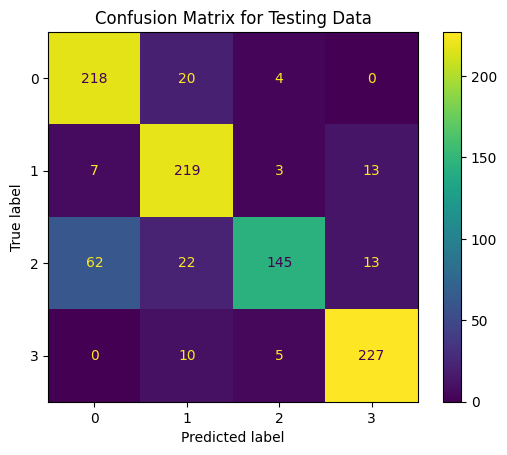
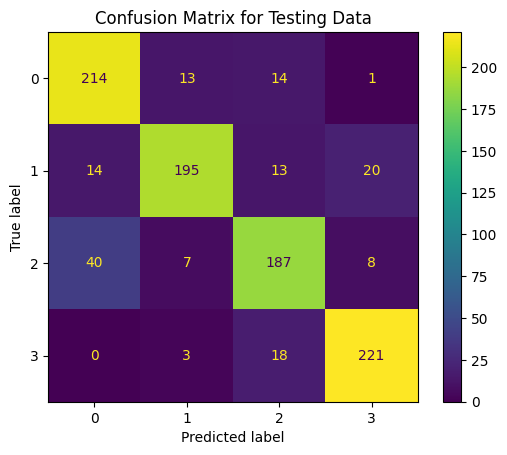
changed images

diff --git a/Project Progress Report/Proposal LaTeX/main.tex b/Project Progress Report/Proposal LaTeX/main.tex
@@ -262,35 +262,35 @@ The following results are shown below, which will be acting as the baselines goi
 \begin{lstlisting}
   ------ Training and Validation Phase ------
   Epoch [1/10]:
-  Training - Train Loss: 1.0887, Train Accuracy: 0.5433
-  Validation - Val Loss: 0.6531, Val Accuracy: 0.7812
+  Training - Train Loss: 1.0593, Train Accuracy: 0.5707
+  Validation - Val Loss: 0.5948, Val Accuracy: 0.9062
   Epoch [2/10]:
-  Training - Train Loss: 0.7874, Train Accuracy: 0.7192
-  Validation - Val Loss: 0.5057, Val Accuracy: 0.8750
+  Training - Train Loss: 0.7679, Train Accuracy: 0.7235
+  Validation - Val Loss: 0.4823, Val Accuracy: 0.8750
   Epoch [3/10]:
-  Training - Train Loss: 0.6839, Train Accuracy: 0.7508
-  Validation - Val Loss: 0.4508, Val Accuracy: 0.8438
+  Training - Train Loss: 0.7012, Train Accuracy: 0.7355
+  Validation - Val Loss: 0.4155, Val Accuracy: 0.8438
   Epoch [4/10]:
-  Training - Train Loss: 0.6904, Train Accuracy: 0.7365
-  Validation - Val Loss: 0.3884, Val Accuracy: 0.9062
+  Training - Train Loss: 0.6496, Train Accuracy: 0.7548
+  Validation - Val Loss: 0.3429, Val Accuracy: 0.9062
   Epoch [5/10]:
-  Training - Train Loss: 0.6213, Train Accuracy: 0.7712
-  Validation - Val Loss: 0.3650, Val Accuracy: 0.9375
+  Training - Train Loss: 0.6159, Train Accuracy: 0.7660
+  Validation - Val Loss: 0.3563, Val Accuracy: 0.9062
   Epoch [6/10]:
-  Training - Train Loss: 0.6065, Train Accuracy: 0.7668
-  Validation - Val Loss: 0.3354, Val Accuracy: 0.9062
+  Training - Train Loss: 0.5943, Train Accuracy: 0.7772
+  Validation - Val Loss: 0.3234, Val Accuracy: 0.9062
   Epoch [7/10]:
-  Training - Train Loss: 0.5787, Train Accuracy: 0.7800
-  Validation - Val Loss: 0.3003, Val Accuracy: 0.9062
+  Training - Train Loss: 0.5783, Train Accuracy: 0.7808
+  Validation - Val Loss: 0.3509, Val Accuracy: 0.9062
   Epoch [8/10]:
-  Training - Train Loss: 0.5600, Train Accuracy: 0.7983
-  Validation - Val Loss: 0.3019, Val Accuracy: 0.9062
+  Training - Train Loss: 0.5760, Train Accuracy: 0.7808
+  Validation - Val Loss: 0.2976, Val Accuracy: 0.8750
   Epoch [9/10]:
-  Training - Train Loss: 0.5657, Train Accuracy: 0.7867
-  Validation - Val Loss: 0.3093, Val Accuracy: 0.9062
+  Training - Train Loss: 0.5427, Train Accuracy: 0.8005
+  Validation - Val Loss: 0.2798, Val Accuracy: 0.9062
   Epoch [10/10]:
-  Training - Train Loss: 0.5466, Train Accuracy: 0.7920
-  Validation - Val Loss: 0.2906, Val Accuracy: 0.9062
+  Training - Train Loss: 0.5371, Train Accuracy: 0.8023
+  Validation - Val Loss: 0.2726, Val Accuracy: 0.9062
 \end{lstlisting}
 \captionof{figure}{Training and validation loss and accuracy per epoch.}
 \label{fig:epoch_train_val}
